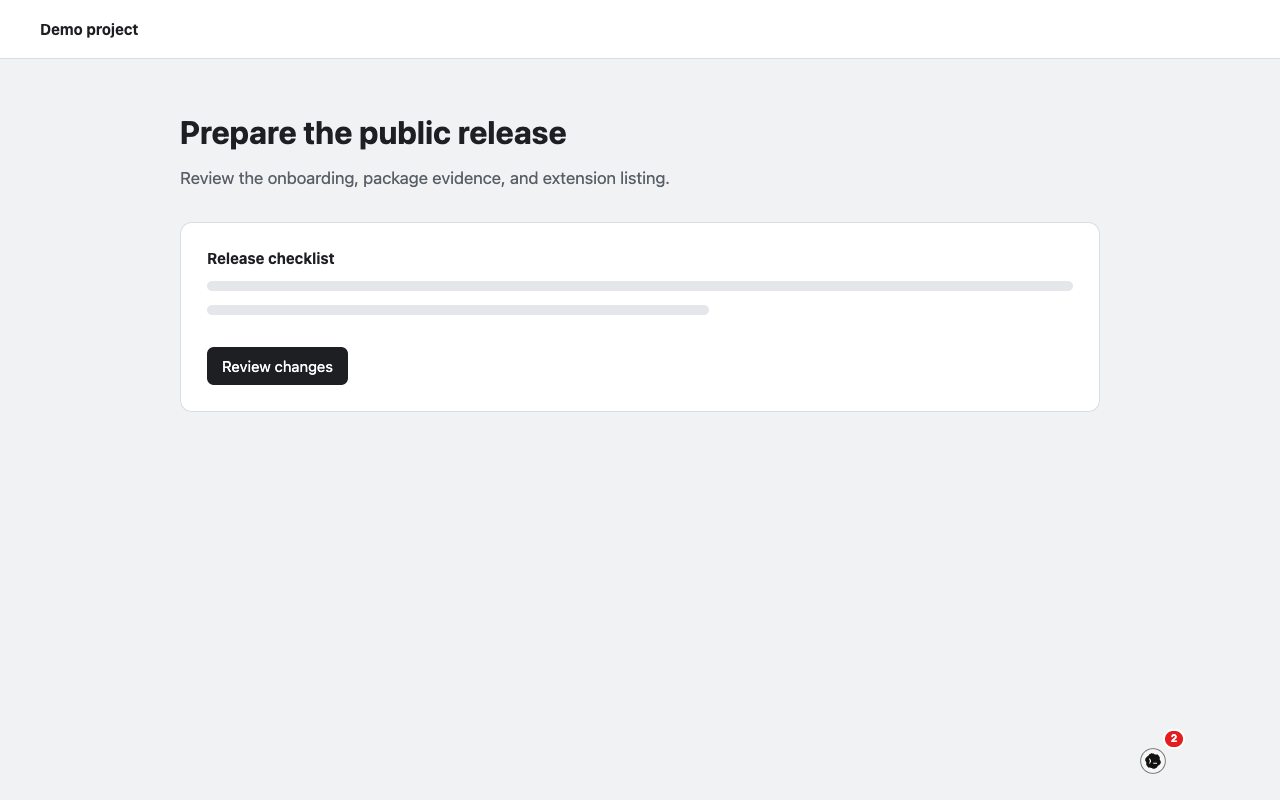
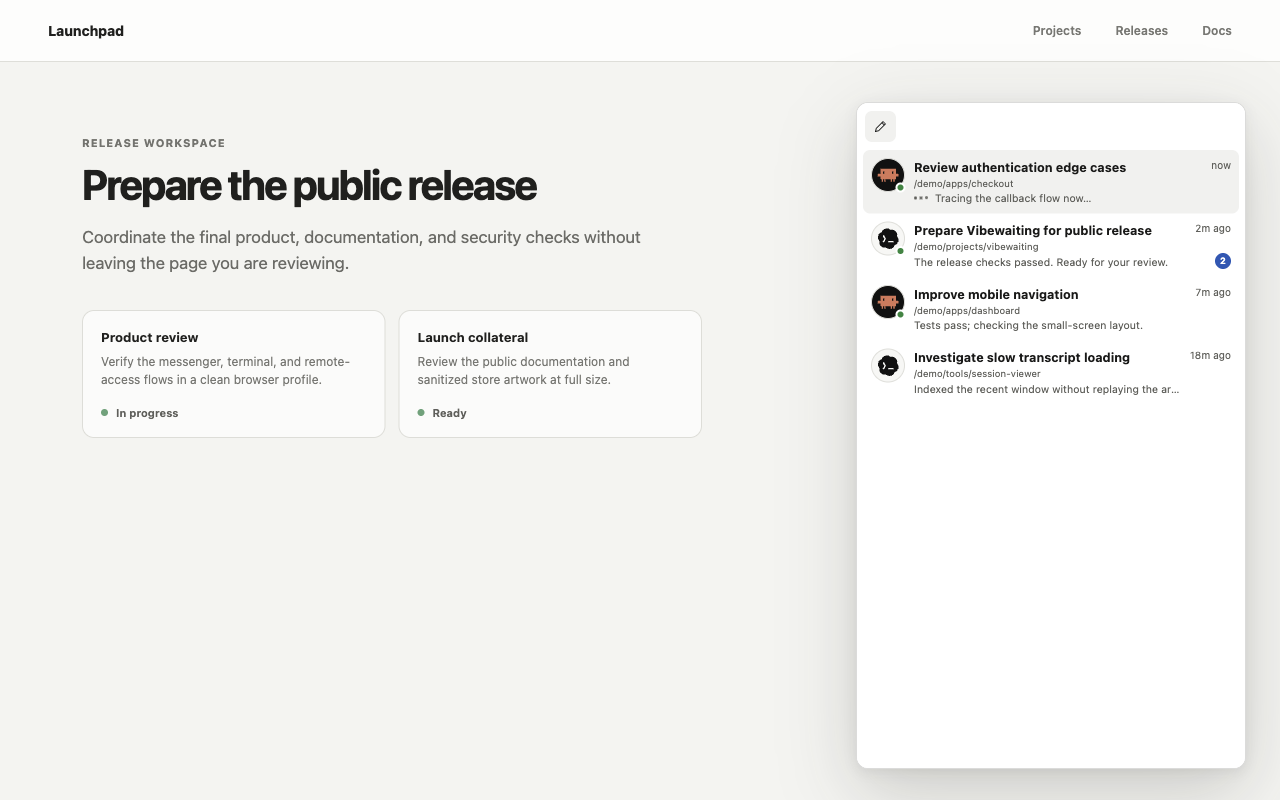
release: finish public launch presentation

diff --git a/scripts/store-messenger-demo.tsx b/scripts/store-messenger-demo.tsx
@@ -1,0 +1,182 @@
+// Deliberately sanitized store-artwork fixture. This mounts the production messenger with a
+// representative bounded inventory; it is not shipped in the extension or exercised in merge CI.
+import type { SupercodeUiState } from "@volter-ai-dev/supercode-ui";
+import { mountMessenger } from "../widget/messenger.js";
+import type { MessengerTransport } from "../widget/transport.js";
+
+const now = Date.now();
+const state: SupercodeUiState = {
+  pill: { tone: "live", label: "Local agents connected" },
+  startup: "ready",
+  busy: true,
+  operation: "Reviewing authentication edge cases",
+  needsInput: false,
+  harness: "claude-code",
+  mode: "none",
+  strategy: null,
+  canSend: false,
+  canSteer: false,
+  canResume: false,
+  supportsResume: false,
+  continuationModes: ["terminal", "headless"],
+  canBranch: false,
+  supportsBranch: false,
+  canAttach: false,
+  supportsAttach: false,
+  canDetach: false,
+  canOpenTerminal: true,
+  canExport: false,
+  canReduce: false,
+  canInterrupt: false,
+  canRespond: false,
+  canConfigureSettings: true,
+  messaging: null,
+  workspace: "/demo/projects",
+  transcript: [],
+  taskPlan: { source: "none", items: [], residueCount: 0, observedAt: null },
+  semantics: {
+    fidelity: null,
+    residue: [],
+    residueCount: 0,
+    parseErrors: 0,
+    rawRecords: 0,
+    subagents: [],
+  },
+  terminalHandoff: null,
+  exportBackTarget: null,
+  exportReceipt: null,
+  reductionReceipt: null,
+  interopSettings: null,
+  interopSettingsError: null,
+  harnessAuthentication: null,
+  error: null,
+  recoverable: false,
+  harnesses: [
+    {
+      id: "claude-code",
+      label: "Claude Code",
+      installed: true,
+      startable: true,
+      reason: null,
+    },
+    {
+      id: "codex",
+      label: "Codex",
+      installed: true,
+      startable: true,
+      reason: null,
+    },
+  ],
+  history: {
+    sessionLimit: 50,
+    hasMoreSessions: false,
+    transcriptLimit: 100,
+    hasEarlier: false,
+  },
+  savedDraft: "",
+  attention: [
+    {
+      key: "release",
+      kind: "unseen",
+      preview: "The release checks passed. Ready for your review.",
+      afterMessages: 42,
+      unreadCount: 2,
+    },
+  ],
+  sessions: [
+    {
+      key: "auth-review",
+      harness: "claude-code",
+      name: "checkout",
+      cwd: "/demo/apps/checkout",
+      title: "Review authentication edge cases",
+      preview: "Tracing the callback flow now…",
+      age: "now",
+      previewUpdatedAt: now,
+      updatedAt: now,
+      messages: 58,
+      active: true,
+      writable: true,
+      live: true,
+      runtimeStatus: "busy",
+    },
+    {
+      key: "release",
+      harness: "codex",
+      name: "vibewaiting",
+      cwd: "/demo/projects/vibewaiting",
+      title: "Prepare Vibewaiting for public release",
+      preview: "The release checks passed. Ready for your review.",
+      age: "2m ago",
+      previewUpdatedAt: now - 2 * 60_000,
+      updatedAt: now - 2 * 60_000,
+      messages: 42,
+      active: false,
+      writable: true,
+      live: true,
+      runtimeStatus: "idle",
+    },
+    {
+      key: "mobile-navigation",
+      harness: "claude-code",
+      name: "dashboard",
+      cwd: "/demo/apps/dashboard",
+      title: "Improve mobile navigation",
+      preview: "Tests pass; checking the small-screen layout.",
+      age: "7m ago",
+      previewUpdatedAt: now - 7 * 60_000,
+      updatedAt: now - 7 * 60_000,
+      messages: 27,
+      active: false,
+      writable: true,
+      live: true,
+      runtimeStatus: "running",
+    },
+    {
+      key: "transcript-performance",
+      harness: "codex",
+      name: "session-viewer",
+      cwd: "/demo/tools/session-viewer",
+      title: "Investigate slow transcript loading",
+      preview: "Indexed the recent window without replaying the archive.",
+      age: "18m ago",
+      previewUpdatedAt: now - 18 * 60_000,
+      updatedAt: now - 18 * 60_000,
+      messages: 91,
+      active: false,
+      writable: false,
+      live: false,
+      runtimeStatus: null,
+    },
+  ],
+  subagentInspector: null,
+  attached: null,
+  owned: null,
+  attachError: null,
+};
+
+let patchListener: ((patch: unknown) => void) | null = null;
+let sequence = 0;
+const transport: MessengerTransport = {
+  sendIntent(_name, _payload) {
+    const id = `store-demo:${++sequence}`;
+    queueMicrotask(() => patchListener?.({ ...state, bridgeAck: id }));
+    return id;
+  },
+  onPatch(listener) {
+    patchListener = listener;
+    queueMicrotask(() => listener(state));
+    return () => {
+      if (patchListener === listener) patchListener = null;
+    };
+  },
+  onVisibility(listener) {
+    queueMicrotask(() => listener(true));
+    return () => undefined;
+  },
+  setLauncher() {},
+  closeShell() {},
+  destroy() {},
+};
+
+mountMessenger(transport, { closable: false });

diff --git a/SUPPORT.md b/SUPPORT.md
@@ -1,12 +1,19 @@
 # Support
 
-- Use [GitHub Discussions](https://github.com/volter-ai/vibewaiting/discussions) for
-  setup questions, ideas, and usage help.
-- Use the bug report form for reproducible defects.
-- Use the feature request form for a concrete user problem that fits Vibewaiting's
-  browser-companion scope.
-- Follow [SECURITY.md](SECURITY.md) for vulnerabilities. Never post secrets or private
-  session data in an issue or discussion.
+Vibewaiting is an early public alpha for macOS or Linux, Chrome/Chromium/Brave,
+and local Claude Code or Codex sessions.
 
-This is an early-stage community project. Support is best-effort; there is no service
-level agreement.
+- Use [GitHub Discussions](https://github.com/volter-ai/vibewaiting/discussions) for
+  installation help, questions, and design ideas.
+- Use the [bug report form](https://github.com/volter-ai/vibewaiting/issues/new?template=bug_report.yml)
+  for reproducible defects.
+- Follow [SECURITY.md](SECURITY.md) for vulnerabilities. Never report them in a public
+  issue or discussion.
+
+Before posting, remove credentials, access URLs and codes, private paths, session text,
+terminal output, and customer data. Include the Vibewaiting version, operating system,
+browser version, harness, and the smallest safe reproduction.
+
+Windows, Firefox, and harnesses other than Claude Code or Codex are not supported in
+the current release. The [support matrix](README.md#support-matrix) is the authoritative
+capability summary. Community support is best-effort and has no service-level agreement.

diff --git a/README.md b/README.md
@@ -44,8 +44,9 @@ websites**, accept the browser prompt, and select a workspace; the launcher then
 on ordinary HTTP and HTTPS pages. Brave and Chromium use `--browser brave` and
 `--browser chromium`.
 
-No release yet? The project is being prepared for its first public alpha. The same flow
-can be exercised [from source](docs/install.md#install-from-source).
+The signed `v0.1.0` artifacts, checksums, SBOM, and provenance are available from the
+[latest GitHub Release](https://github.com/volter-ai/vibewaiting/releases/latest). The
+same flow can also be exercised [from source](docs/install.md#install-from-source).
 
 ## What using it feels like
 
@@ -128,8 +129,9 @@ The browser/native boundary and complete ownership map live in
 
 Start with [CONTRIBUTING.md](CONTRIBUTING.md) and the [roadmap](ROADMAP.md). Bugs use
 the issue form; setup and design questions belong in
-[Discussions](https://github.com/volter-ai/vibewaiting/discussions); vulnerabilities
-follow [SECURITY.md](SECURITY.md). The merge gate is intentionally under one minute;
+[Discussions](https://github.com/volter-ai/vibewaiting/discussions); the complete routing
+guide is in [SUPPORT.md](SUPPORT.md), and vulnerabilities follow [SECURITY.md](SECURITY.md).
+The merge gate is intentionally under one minute;
 Chromium runs only in the nightly workflow.
 
 Vibewaiting is available under the [MIT License](LICENSE).

diff --git a/docs/releasing.md b/docs/releasing.md
@@ -24,9 +24,11 @@ The CLI tarball pins and bundles its production dependency tree. Build-only pack
 stay outside the artifact, and the SBOM omits them, so the reviewed tarball installs the
 same runtime tree represented by its SBOM without resolving newer registry packages.
 
-GitHub generates release notes from the merged pull requests. Never publish an artifact
-built from an uncommitted tree. Browser-store signing is a separate release lane and is
-not implied by the GitHub ZIP. Public releases also receive GitHub/Sigstore build
+The workflow derives concise release notes from the matching `CHANGELOG.md` section,
+creates a draft, attaches every artifact, and only then publishes it. This ordering is
+required once GitHub release immutability is enabled. Never publish an artifact built
+from an uncommitted tree. Browser-store signing is a separate release lane and is not
+implied by the GitHub ZIP. Public releases also receive GitHub/Sigstore build
 provenance, verifiable with `gh attestation verify <artifact> --repo volter-ai/vibewaiting`.
 The attestation step stays off while the repository is private because GitHub Free and
 Team plans expose private attestations only through Enterprise Cloud.

diff --git a/docs/assets/store/README.md b/docs/assets/store/README.md
@@ -3,7 +3,8 @@
 These assets use only deliberate demo data. They contain no maintainer username, home
 directory, repository secret, real session text, terminal handle, or customer content.
 
-- `messenger-1280x800.png` is the production messenger rendered on a neutral demo page.
+- `messenger-1280x800.png` mounts the production messenger with the bounded, sanitized
+  inventory in `scripts/store-messenger-demo.tsx` on a neutral demo page.
 - `terminal-1280x800.png` mounts the production messenger and terminal components using
   `scripts/store-terminal-demo.tsx` and a local, sanitized terminal stream.
 - `website-access-1280x800.png` is the clean-profile first-run disclosure.
@@ -12,3 +13,6 @@ directory, repository secret, real session text, terminal handle, or customer co
 After replacing any asset, run `npm run verify:store-assets` and review the candidate at
 100% scale before uploading it. Screenshots are release collateral, not browser tests;
 they do not run in merge CI.
+
+Rebuild the messenger fixture with `node scripts/build-store-messenger-demo.mjs`, serve
+`/tmp/vibewaiting-store-messenger-demo`, and capture its 1280×800 viewport.

diff --git a/SECURITY.md b/SECURITY.md
@@ -26,7 +26,7 @@ boundaries.
 ## Supported versions
 
 Until the first stable release, security fixes target the latest commit on `main` and
-the newest published prerelease. Older prereleases may not receive backports.
+the newest published `0.x` release. Older alpha releases may not receive backports.
 
 ## Reporting a vulnerability
 
